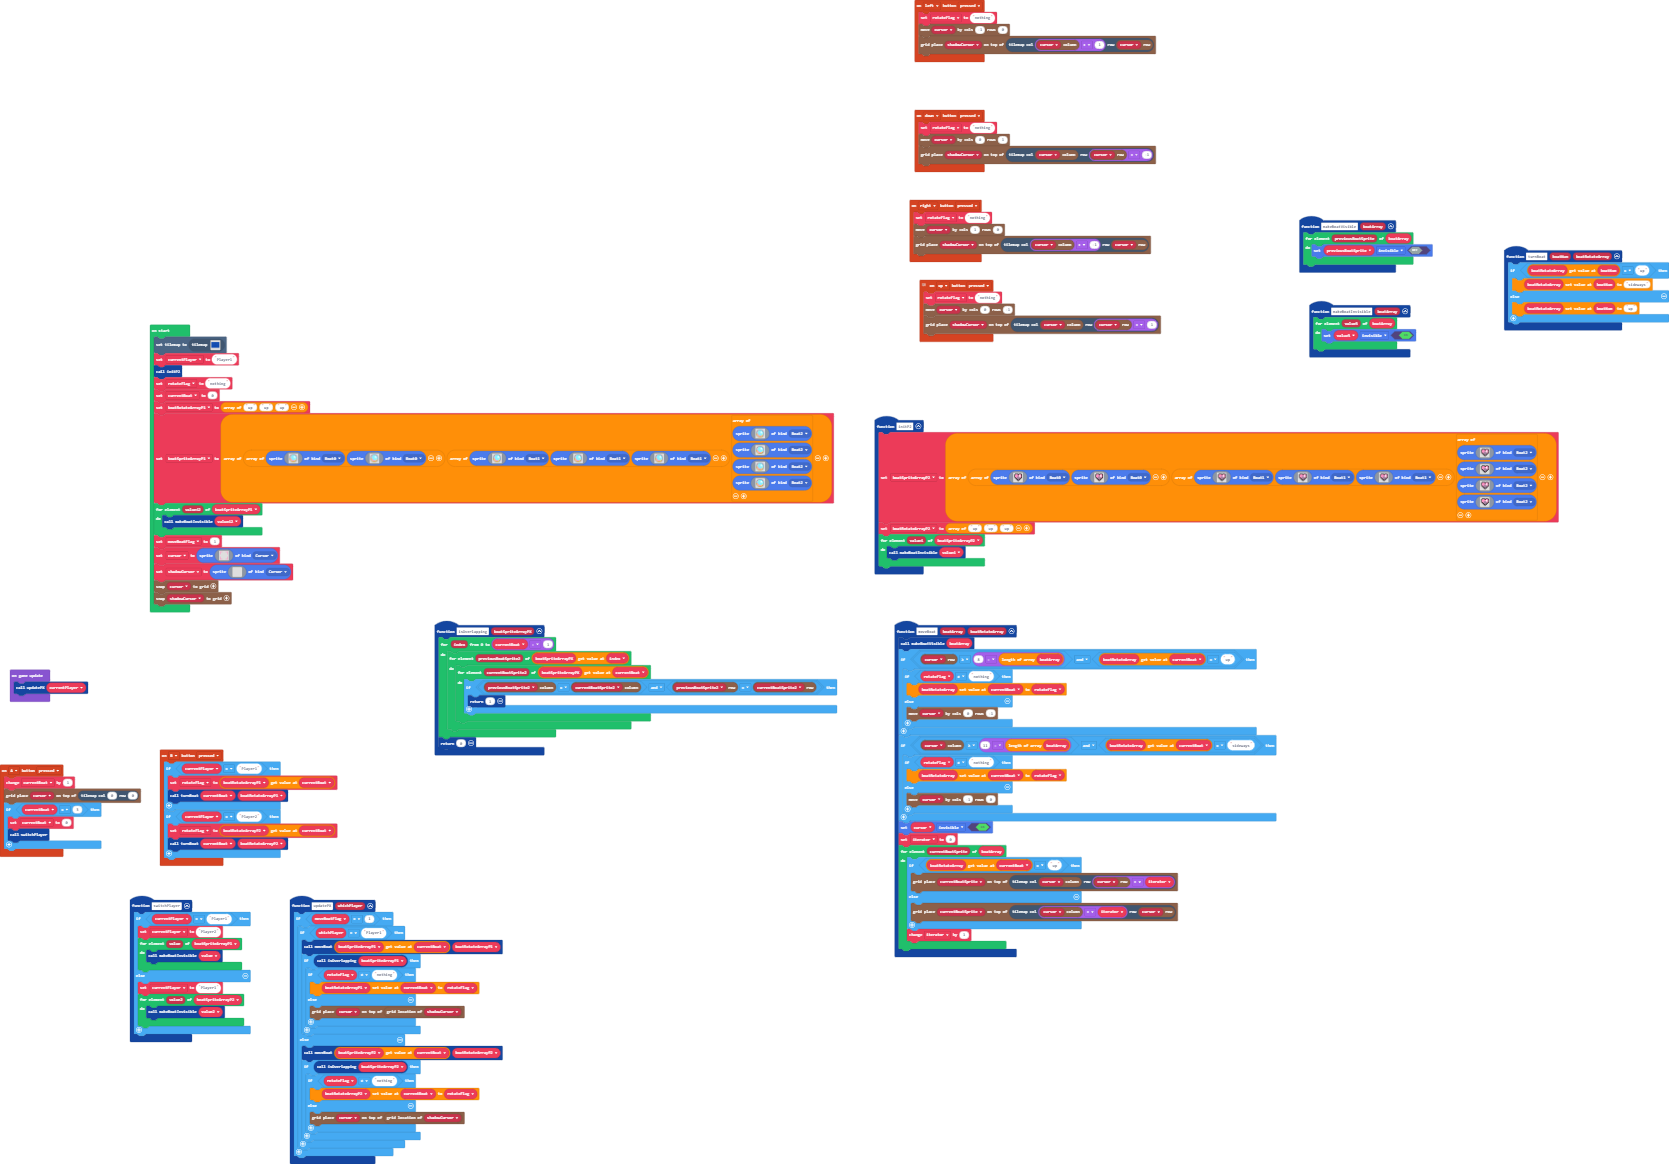
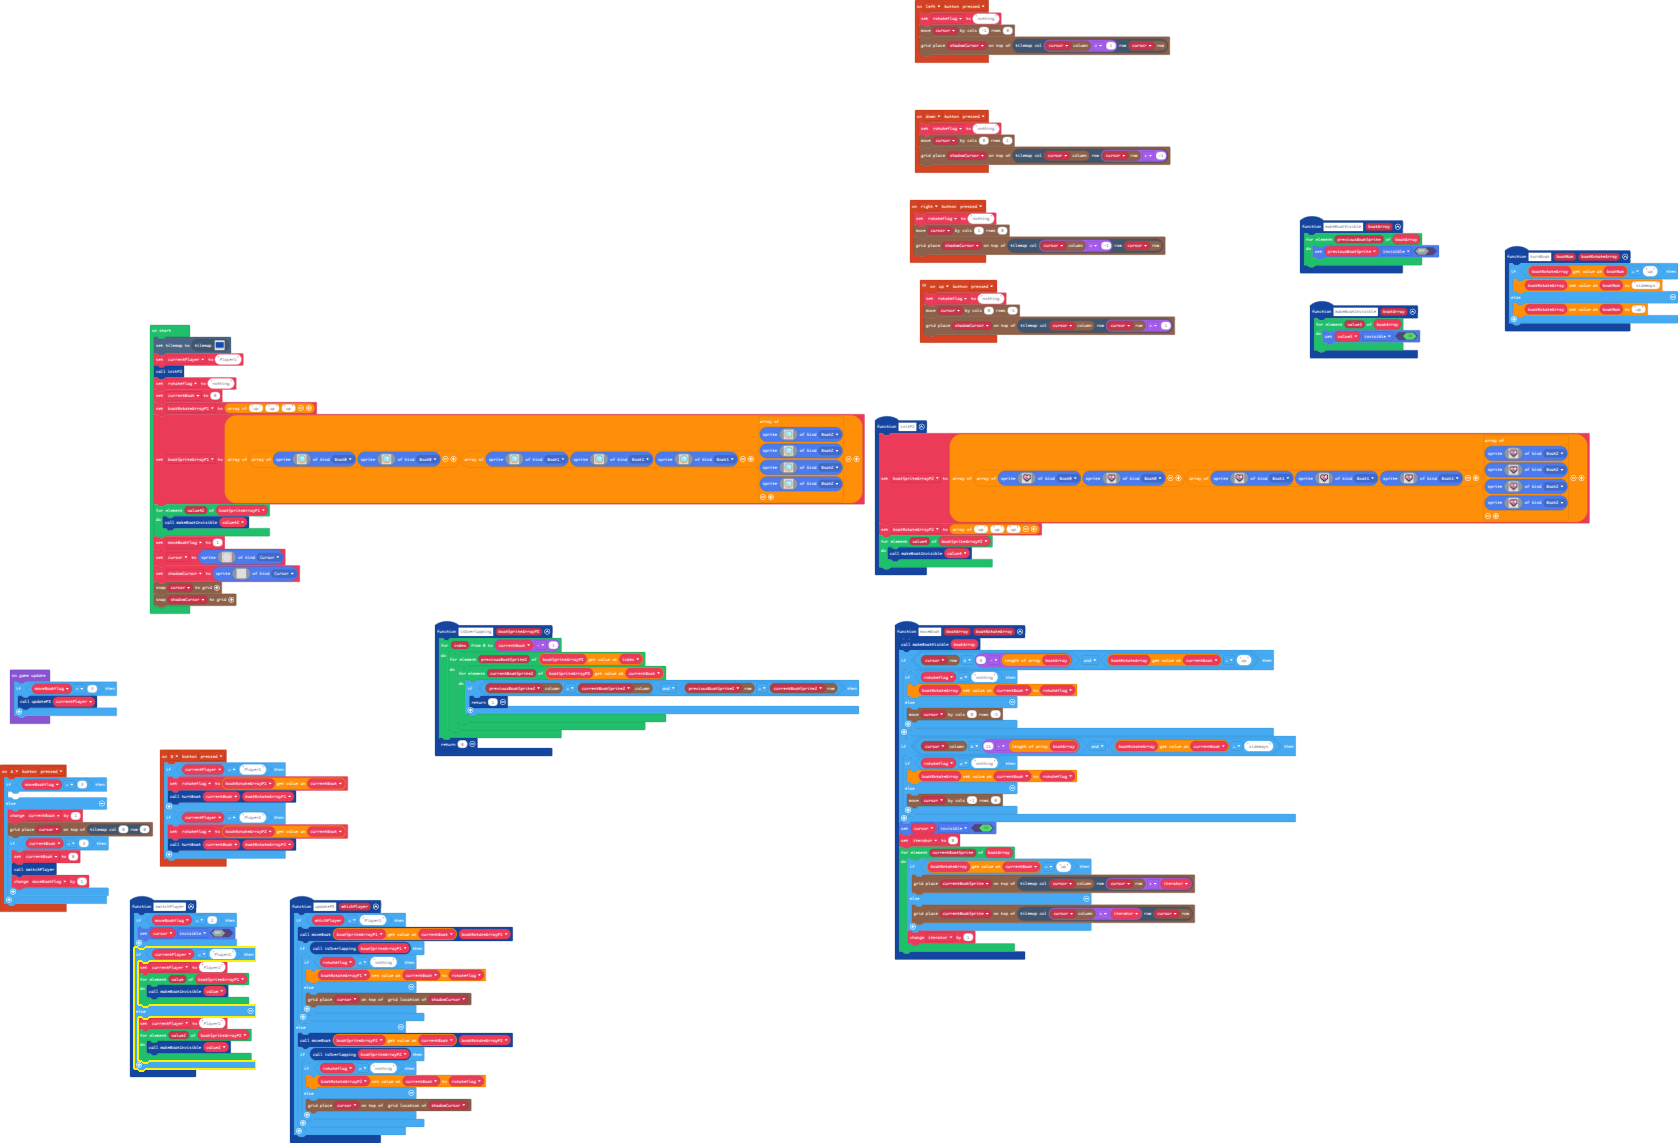
cursor turns on!

diff --git a/main.ts b/main.ts
@@ -11,24 +11,22 @@ controller.up.onEvent(ControllerButtonEvent.Pressed, function () {
     grid.place(shadowCursor, tiles.getTileLocation(grid.spriteCol(cursor), grid.spriteRow(cursor) + 1))
 })
 function updatePX (whichPlayer: string) {
-    if (moveBoatFlag == 1) {
-        if (whichPlayer == "Player1") {
-            moveBoat(boatSpriteArrayP1[currentBoat], boatRotateArrayP1)
-            if (isOverlapping(boatSpriteArrayP1)) {
-                if (rotateFlag != "nothing") {
-                    boatRotateArrayP1[currentBoat] = rotateFlag
-                } else {
-                    grid.place(cursor, grid.getLocation(shadowCursor))
-                }
+    if (whichPlayer == "Player1") {
+        moveBoat(boatSpriteArrayP1[currentBoat], boatRotateArrayP1)
+        if (isOverlapping(boatSpriteArrayP1)) {
+            if (rotateFlag != "nothing") {
+                boatRotateArrayP1[currentBoat] = rotateFlag
+            } else {
+                grid.place(cursor, grid.getLocation(shadowCursor))
             }
-        } else {
-            moveBoat(boatSpriteArrayP2[currentBoat], boatRotateArrayP2)
-            if (isOverlapping(boatSpriteArrayP2)) {
-                if (rotateFlag != "nothing") {
-                    boatRotateArrayP2[currentBoat] = rotateFlag
-                } else {
-                    grid.place(cursor, grid.getLocation(shadowCursor))
-                }
+        }
+    } else {
+        moveBoat(boatSpriteArrayP2[currentBoat], boatRotateArrayP2)
+        if (isOverlapping(boatSpriteArrayP2)) {
+            if (rotateFlag != "nothing") {
+                boatRotateArrayP2[currentBoat] = rotateFlag
+            } else {
+                grid.place(cursor, grid.getLocation(shadowCursor))
             }
         }
     }
@@ -49,11 +47,16 @@ function makeBoatVisible (boatArray: Sprite[]) {
     }
 }
 controller.A.onEvent(ControllerButtonEvent.Pressed, function () {
-    currentBoat += 1
-    grid.place(cursor, tiles.getTileLocation(0, 0))
-    if (currentBoat == 3) {
-        currentBoat = 0
-        switchPlayer()
+    if (moveBoatFlag == 3) {
+    	
+    } else {
+        currentBoat += 1
+        grid.place(cursor, tiles.getTileLocation(0, 0))
+        if (currentBoat == 3) {
+            currentBoat = 0
+            switchPlayer()
+            moveBoatFlag += 1
+        }
     }
 })
 controller.left.onEvent(ControllerButtonEvent.Pressed, function () {
@@ -62,6 +65,9 @@ controller.left.onEvent(ControllerButtonEvent.Pressed, function () {
     grid.place(shadowCursor, tiles.getTileLocation(grid.spriteCol(cursor) + 1, grid.spriteRow(cursor)))
 })
 function switchPlayer () {
+    if (moveBoatFlag == 2) {
+        cursor.setFlag(SpriteFlag.Invisible, false)
+    }
     if (currentPlayer == "Player1") {
         currentPlayer = "Player2"
         for (let value of boatSpriteArrayP1) {
@@ -527,5 +533,7 @@ shadowCursor = sprites.create(img`
 grid.snap(cursor)
 grid.snap(shadowCursor)
 game.onUpdate(function () {
-    updatePX(currentPlayer)
+    if (moveBoatFlag < 3) {
+        updatePX(currentPlayer)
+    }
 })
